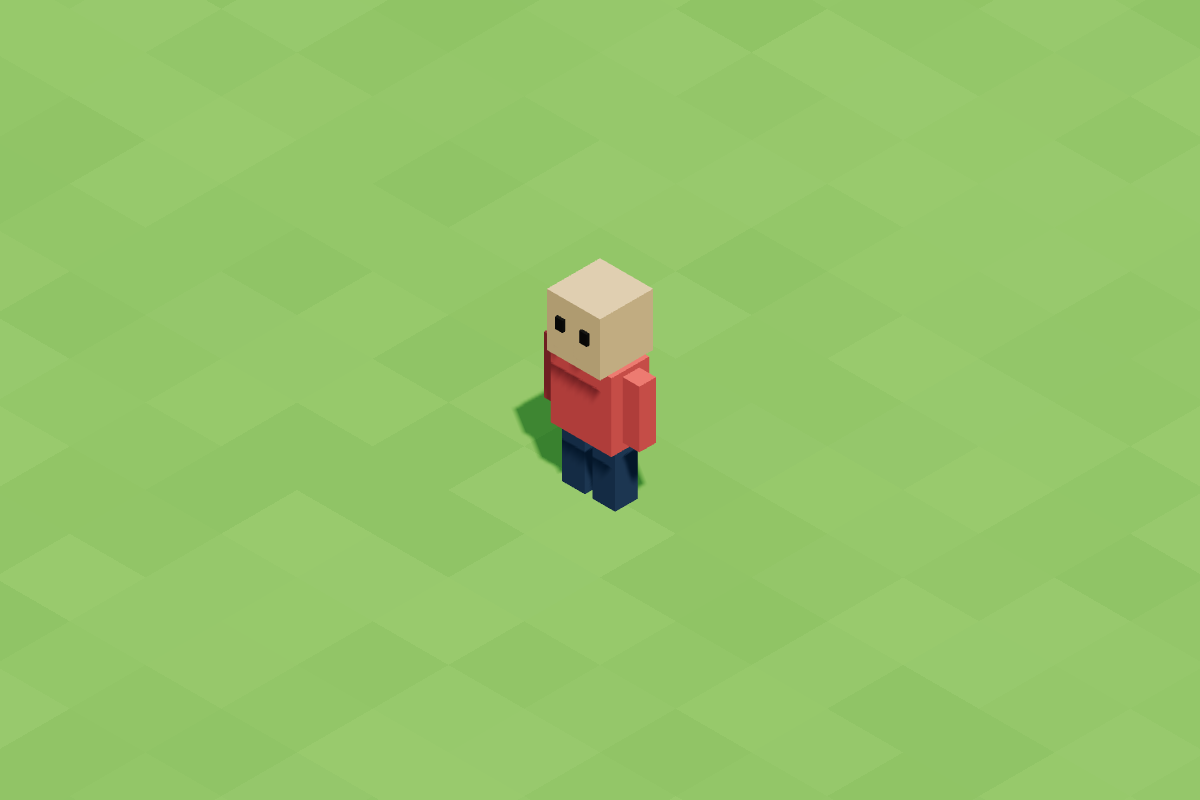
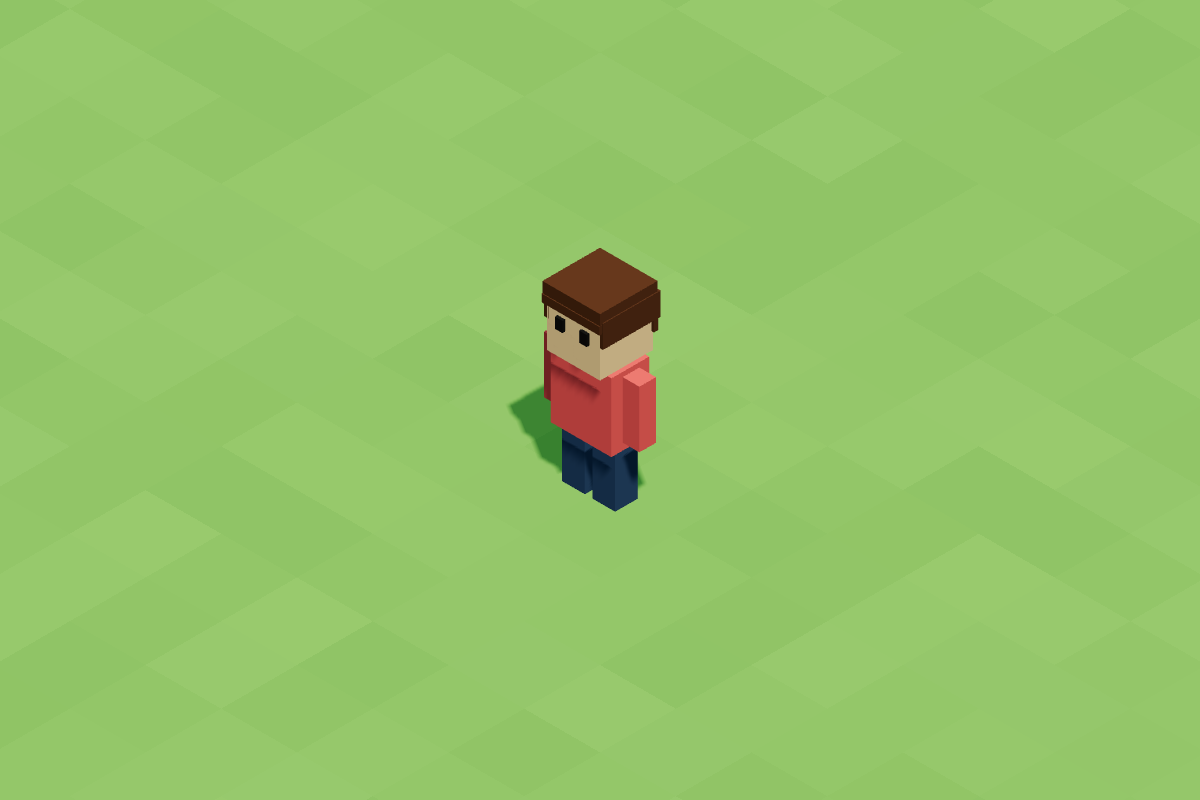
Give the character brown hair, and make the slides work on phones
- character.js: short brown hair made of boxes (top, fringe, sides, back),
  with hairColour in config.js
- slides: the box-person picture and game screenshot have the hair too
- slides: on phones the cards stack one per row with the picture on the
  left, arrows point down, and you can swipe between slides. Sideways
  phones get a slightly smaller layout.

Claude-Session: https://claude.ai/code/session_015jYhFaWBsXfmWy5KoG4i3n

Changed region(s): [[0.4317, 0.3125, 0.555, 0.4375], [0.4317, 0.4688, 0.4625, 0.5], [0.4008, 0.5, 0.4317, 0.5312]]

diff --git a/slides/index.html b/slides/index.html
@@ -111,7 +111,7 @@
         background: var(--card);
         border-radius: 1.2rem;
         padding: 2vh 1.5vw;
-        width: clamp(8rem, 17vw, 16rem);
+        width: clamp(8rem, 15vw, 16rem);
         box-shadow: 0 0.6vh 0 rgba(0, 0, 0, 0.12);
         font-size: clamp(0.95rem, 1.8vw, 1.6rem);
         font-weight: bold;
@@ -265,6 +265,122 @@
       .dot.current {
         background: white;
       }
+
+      /* ---------- Phones held upright: one card per row, picture on the left ---------- */
+
+      @media (max-width: 700px) {
+        .slide {
+          justify-content: safe center;
+          gap: 2vh;
+          padding: 4vh 16px 12vh;
+          overflow-y: auto;
+        }
+
+        .cards,
+        .steps,
+        .flow {
+          display: flex;
+          flex-direction: column;
+          align-items: stretch;
+          gap: 8px;
+          width: 100%;
+        }
+
+        .cards .card,
+        .steps .card {
+          display: grid;
+          grid-template-columns: 3rem 1fr;
+          align-items: center;
+          column-gap: 10px;
+          width: 100%;
+          height: auto;
+          margin: 0;
+          padding: 8px 12px;
+          text-align: left;
+        }
+
+        .cards .card .big-emoji,
+        .steps .card .big-emoji {
+          grid-row: 1 / span 3;
+          margin: 0;
+          font-size: 2.4rem;
+        }
+
+        .steps .card:nth-child(n) {
+          margin-bottom: 0;
+        }
+
+        .year {
+          font-size: 1em;
+        }
+
+        .versus {
+          flex-direction: column;
+          gap: 4px;
+          width: 100%;
+        }
+
+        .versus .card {
+          width: 100%;
+        }
+
+        /* Arrows point down when things are stacked */
+        .arrow {
+          transform: rotate(90deg);
+          font-size: 1.4rem;
+          line-height: 1;
+          text-align: center;
+        }
+
+        .side-by-side {
+          flex-direction: column;
+          gap: 2vh;
+        }
+
+        .box-friend {
+          height: 30vh;
+        }
+
+        .game-picture {
+          height: 18vh;
+        }
+      }
+
+      /* ---------- Phones held sideways: everything a bit smaller ---------- */
+
+      @media (max-height: 500px) and (min-width: 701px) {
+        .slide {
+          gap: 2vh;
+          padding: 3vh 4vw 11vh;
+        }
+
+        .cards {
+          flex-wrap: nowrap;
+          gap: 1.5vw;
+        }
+
+        .card {
+          padding: 1.5vh 1vw;
+        }
+
+        .card .big-emoji {
+          font-size: 2rem;
+        }
+
+        .steps .card {
+          height: 36vh;
+        }
+
+        .steps .card:nth-child(2) { margin-bottom: 3vh; }
+        .steps .card:nth-child(3) { margin-bottom: 6vh; }
+        .steps .card:nth-child(4) { margin-bottom: 9vh; }
+        .steps .card:nth-child(5) { margin-bottom: 12vh; }
+        .steps .card:nth-child(6) { margin-bottom: 15vh; }
+
+        .game-picture {
+          height: 24vh;
+        }
+      }
     </style>
   </head>
   <body>
@@ -400,6 +516,25 @@
         if (event.clientX > window.innerWidth / 3) {
           showSlide(current + 1)
         } else {
+          showSlide(current - 1)
+        }
+      })
+
+      // Swipe left or right on a phone or tablet.
+      let swipeStartX = 0
+
+      document.addEventListener('touchstart', (event) => {
+        swipeStartX = event.touches[0].clientX
+      })
+
+      document.addEventListener('touchend', (event) => {
+        const swipeDistance = event.changedTouches[0].clientX - swipeStartX
+
+        if (swipeDistance < -50) {
+          showSlide(current + 1)
+        }
+
+        if (swipeDistance > 50) {
           showSlide(current - 1)
         }
       })

diff --git a/src/character.js b/src/character.js
@@ -26,6 +26,27 @@ export function createCharacter(screen) {
   rightEye.position.set(0.16, 0.05, 0.36)
   head.add(rightEye)
 
+  // Short brown hair: a flat top, a fringe at the front, and bits over the ears and at the back.
+  const hairOnTop = makeBox({ width: 0.76, height: 0.16, depth: 0.76, colour: colours.hairColour })
+  hairOnTop.position.set(0, 0.36, 0)
+  head.add(hairOnTop)
+
+  const fringe = makeBox({ width: 0.76, height: 0.1, depth: 0.06, colour: colours.hairColour })
+  fringe.position.set(0, 0.25, 0.36)
+  head.add(fringe)
+
+  const hairAtTheBack = makeBox({ width: 0.76, height: 0.45, depth: 0.06, colour: colours.hairColour })
+  hairAtTheBack.position.set(0, 0.1, -0.36)
+  head.add(hairAtTheBack)
+
+  const leftSideHair = makeBox({ width: 0.06, height: 0.3, depth: 0.76, colour: colours.hairColour })
+  leftSideHair.position.set(-0.36, 0.17, -0.03)
+  head.add(leftSideHair)
+
+  const rightSideHair = makeBox({ width: 0.06, height: 0.3, depth: 0.76, colour: colours.hairColour })
+  rightSideHair.position.set(0.36, 0.17, -0.03)
+  head.add(rightSideHair)
+
   // Arms and legs swing from the top, like shoulders and hips.
   const leftLeg = makeSwingingBox({ width: 0.3, height: 0.7, depth: 0.3, colour: colours.legColour })
   leftLeg.position.set(-0.2, 0.7, 0)

diff --git a/src/config.js b/src/config.js
@@ -13,6 +13,7 @@ export const config = {
     speed: 5, // walking speed
     bodyColour: '#ff6b6b',
     headColour: '#ffd6a5',
+    hairColour: '#6b4226',
     legColour: '#3d5a80',
     armColour: '#ff6b6b',
     eyeColour: '#222222',
